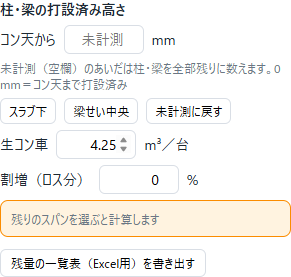
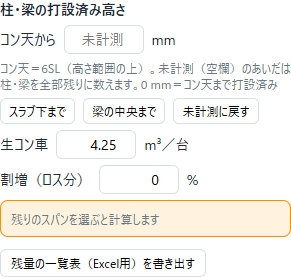
PC画面の文言と並びを直す（site-reviewer 6回目：PC画面の全体レビュー）
- 「数える材料」を「3. 数える部材と材料」の中へ移し、見出しに今の選び方を出す（初期値／初期値から変更）
- 打設リストまわり：「入れ済み」「まだ入れていない分」に言い方をそろえる。二重に数えないチェックを
  「すでにリストに入れた部分は数量から除く（二重に数えないため。外すと全量）」に。左右の説明を短く現場の言い方に
- 残量欄：「コン天＝6SL（高さ範囲の上）」を表示。目安ボタンを「スラブ下まで」「梁の中央まで」に（タブレットも同じ。版 1.4.4）
- 書き出し：「事前にここでタブレット用に書き出します」。書き出し後のメッセージに保存先（ダウンロードのフォルダ）と持ち込み方
- レビュー記録 docs/reviews/2026-11-04_site-reviewer_6.md と画面写真

Changed region(s): [[0.0, 0.2022, 1.0, 0.4621], [0.4021, 0.491, 0.433, 0.5487]]

diff --git a/frontend/app.js b/frontend/app.js
@@ -631,7 +631,7 @@ async function runRemain() {
 async function exportRemainCsv() {
   const order = [...state.remainCells];
   if (!order.length) { toast('先に残りのスパンを選んでください', 'error'); return; }
-  const levels = [['未計測（全量）', presetDepth('none')], ['梁せい中央', presetDepth('beam')], ['スラブ下', presetDepth('slab')]]
+  const levels = [['未計測（全量）', presetDepth('none')], ['梁の中央まで', presetDepth('beam')], ['スラブ下まで', presetDepth('slab')]]
     .filter(([, d]) => d !== null);
   const cur = remainDepthValue() ?? fullDepth();
   if (!levels.some(([, d]) => d === cur)) levels.push(['入力値', cur]);
@@ -648,7 +648,7 @@ async function exportRemainCsv() {
   });
   out.push([], [`生コン車 ${$('truckM3').value} m³／台・割増 ${$('extraPct').value}%・高さ範囲 ${$('rangeText').textContent}`]);
   download(`${state.meta.source.replace(/\.ifc$/i, '')}_${stamp()}_残量一覧表.csv`, csvBlob(out));
-  toast('残量の一覧表を書き出しました', 'ok');
+  toast(`残量の一覧表を書き出しました（${SAVED_TO}）`, 'ok');
 }
 
 // タブレット用データ：全スパンの「上端からの深さ→体積」の表を計算サーバーで作り、1つのJSONに保存する
@@ -690,7 +690,8 @@ async function exportSite() {
   data.uncomputed = [...new Map(data.uncomputed.map((u) => [`${u.name}|${u.category}|${u.reason}`, u])).values()];
   const name = `${state.meta.source.replace(/\.ifc$/i, '')}_${base.title.replace(/[\s（）()]/g, '')}_現場用_${stamp()}.json`;
   download(name, new Blob([JSON.stringify(data)], { type: 'application/json' }));
-  toast(`スパン ${data.cells.length} 件・合計 ${fmt(sum)} m³ を書き出しました${missing ? `（未計算 ${missing} 件は含まれません）` : ''}`, 'ok');
+  toast(`タブレット用に、スパン ${data.cells.length} 件・合計 ${fmt(sum)} m³ を書き出しました${missing ? `（未計算 ${missing} 件は含まれません）` : ''}。` +
+    `${SAVED_TO}。メールやクラウドでタブレットに送り、残量チェックの「データを開く」で選びます`, 'ok');
 }
 
 const regionHoverGroup = new THREE.Group();
@@ -818,6 +819,7 @@ function applyRange() {
   const lowTxt = `${$('lowBase').value}${signed(Number($('lowOff').value) || 0)}`;
   const upTxt = `${$('upBase').value}${signed(Number($('upOff').value) || 0)}`;
   $('rangeText').textContent = `${lowTxt} ～ ${upTxt}（${mm(state.z0)} ～ ${mm(state.z1)} mm）`;
+  $('remainTop').textContent = `コン天＝${upTxt}（高さ範囲の上）`;
   paint();
   scheduleCompute();
 }
@@ -1340,7 +1342,7 @@ function renderResults() {
     const open = r.zones.reduce((a, z) => a + z.total, 0);
     html += `<div class="sum">工区合計 <div class="total">${fmt(sum)} m³</div>` +
       `<div class="muted">${r.zones.map((z) => `${esc(zoneName(z.label))} ${fmt(whole(z))}`).join(' ＋ ')}` +
-      `${open < sum - 0.0005 ? `　（未登録 ${fmt(open)}）` : ''}</div></div>`;
+      `${open < sum - 0.0005 ? `　（まだ入れていない分 ${fmt(open)}）` : ''}</div></div>`;
   }
   for (const z of r.zones) {
     const color = ZONE_COLORS[z.label];
@@ -1348,12 +1350,12 @@ function renderResults() {
     html += `<div class="muted">この条件の数量</div><div class="total">${fmt(whole(z))} <small>m³</small></div>`;
     if (z.excluded > 0.0005) {
       html += '<div class="breakdown">' +
-        `<span class="done">うち打設リストに登録済み（灰色表示）</span><span class="num done">${fmt(z.excluded)} m³</span>` +
-        `<span class="open">未登録（追加できる分）</span><span class="num open">${fmt(z.total)} m³</span></div>`;
+        `<span class="done">うち打設リストに入れ済み（灰色表示）</span><span class="num done">${fmt(z.excluded)} m³</span>` +
+        `<span class="open">まだ入れていない分（追加できる分）</span><span class="num open">${fmt(z.total)} m³</span></div>`;
     }
     // 常に見せるのは工区名・数量・種別内訳・未計算の警告・追加ボタンだけ。根拠は折りたたむ
     if (z.total > 0.0005) {
-      html += `<div class="muted">${z.excluded > 0.0005 ? '未登録分の内訳' : '内訳'}` +
+      html += `<div class="muted">${z.excluded > 0.0005 ? 'まだ入れていない分の内訳' : '内訳'}` +
         ' <span class="qmark" title="柱→梁→壁→スラブ→基礎→階段→その他の順で重なりを配分した参考値です。総数量は重複を除いた体積です。">？</span></div>';
     }
     html += '<table class="mini">';
@@ -1379,9 +1381,9 @@ function renderResults() {
       '</table></details>';
     if (z.total > 0.0005) {
       const zi = r.zones.indexOf(z);
-      html += `<div class="regrow"><button class="reg primary" data-reg="${zi}" title="未登録の ${fmt(z.total)} m³ を追加します">` +
+      html += `<div class="regrow"><button class="reg primary" data-reg="${zi}" title="まだ入れていない ${fmt(z.total)} m³ を追加します">` +
         // 一部が登録済みのときだけ「未登録分」と添え、全体をもう一度足すと誤解されないようにする（数量はすぐ上に出ている）
-        `＋ ${z.excluded > 0.0005 ? '未登録分を' : ''}打設リストに追加</button>`;
+        `＋ ${z.excluded > 0.0005 ? '入れていない分を' : ''}打設リストに追加</button>`;
       if (state.units.length) {
         html += `<select data-addto="${zi}"><option value="">打設リストの既存の行にまとめる…</option>` +
           state.units.map((u, i) => `<option value="${i}">区分${i + 1}「${esc(u.name)}」にまとめる</option>`).join('') + '</select>';
@@ -1618,6 +1620,8 @@ function stamp() {
   const d = new Date(), p = (n) => String(n).padStart(2, '0');
   return `${d.getFullYear()}${p(d.getMonth() + 1)}${p(d.getDate())}_${p(d.getHours())}${p(d.getMinutes())}`;
 }
+// 保存先の案内（ブラウザの保存先。既定はダウンロードのフォルダ）
+const SAVED_TO = '保存先：ダウンロードのフォルダ';
 function download(name, blob) {
   const a = document.createElement('a');
   a.href = URL.createObjectURL(blob);
@@ -1675,7 +1679,7 @@ async function exportCsv() {
   const base = `${state.meta.source.replace(/\.ifc$/i, '')}_${stamp()}`;
   download(`${base}_打設リスト.csv`, csvBlob(list));
   setTimeout(() => download(`${base}_部材明細.csv`, csvBlob(detail)), 300); // 2つ目の保存が抑止されないよう少し空ける
-  toast('表を書き出しました（打設リスト・部材明細。Excelで開けます）', 'ok');
+  toast(`表を書き出しました（打設リスト・部材明細。Excelで開けます。${SAVED_TO}）`, 'ok');
 }
 
 function applyPlan(plan) {
@@ -1745,9 +1749,19 @@ function renderSidebar() {
     return `<tr><td>${selectable ? `<input type="checkbox" data-mat="${esc(name)}"${info.included ? ' checked' : ''}>` : '—'}</td>` +
       `<td>${esc(name)}${selectable ? '' : '<div class="muted">複数材料・材料なしは選べません</div>'}</td><td class="num">${info.count}</td></tr>`;
   }).join('');
+  updateMatSummary();
   state.categories = new Set(m.categories);
   $('categories').innerHTML = m.categories.map((c) =>
     `<label><input type="checkbox" data-cat="${esc(c)}" checked><span class="chip" style="background:${hex(CAT_COLORS[c])}"></span>${esc(c)}</label>`).join('');
+}
+
+// 「数える材料」の見出し：今の選び方が閉じたままでも分かるように
+function updateMatSummary() {
+  const def = defaultMaterials(), cur = [...state.materials];
+  const same = cur.length === def.length && def.every((n) => state.materials.has(n));
+  $('matSummary').textContent = same ? '数える材料：名前に「コンクリート」を含むもの（増し打ち含む）'
+    : !cur.length ? '数える材料：なし（選び直してください）'
+    : `数える材料：${cur.slice(0, 2).join('・')}${cur.length > 2 ? ` ほか ${cur.length - 2} 種類` : ''}（初期値から変更）`;
 }
 
 // 読込中は経過秒数を足して、止まっていないことが分かるようにする
@@ -1849,6 +1863,7 @@ $('materials').addEventListener('change', (ev) => {
   const name = ev.target.dataset.mat;
   if (name === undefined) return;
   ev.target.checked ? state.materials.add(name) : state.materials.delete(name);
+  updateMatSummary();
   paint();
   scheduleCompute();
 });

diff --git a/frontend/index.html b/frontend/index.html
@@ -37,7 +37,7 @@
 
     <section>
       <h2>2. 工区割（打設を分けるときだけ）</h2>
-      <div class="muted">工区割がない場合、右の数量の「打設リストに追加」をクリック</div>
+      <div class="muted">工区を分けないときは、右の数量の「打設リストに追加」へ</div>
       <div class="modes">
         <button data-mode="boundary" class="mode">境界線を引く</button>
         <button data-mode="zone" class="mode">工区名を付ける</button>
@@ -65,8 +65,13 @@
     </section>
 
     <section>
-      <h2>3. 数える部材</h2>
+      <h2>3. 数える部材と材料</h2>
       <div id="categories" class="checks"></div>
+      <details class="mats">
+        <summary id="matSummary">数える材料：名前に「コンクリート」を含むもの（増し打ち含む）</summary>
+        <div class="muted">増し打ちを数えるかなど、ここで選び直せます（初期値：名前に「コンクリート」を含む材料）</div>
+        <table id="materials" class="mini"></table>
+      </details>
       <div class="modes">
         <button data-mode="select" class="mode">部材を選択</button>
         <button id="clearSel">選択解除</button>
@@ -79,14 +84,14 @@
     <section>
       <h2>4. 打設終盤の残量（当日）</h2>
       <div class="filebtns"><button id="exportSite" class="filebtn">タブレット用に書き出す</button></div>
-      <div class="muted">全スパンの数量を保存します（スパンの選択は不要）。当日はタブレットで開きます</div>
+      <div class="muted">事前にここでタブレット用に書き出します（全スパンの数量。スパンの選択は不要）。当日はタブレットで開きます</div>
       <div class="modes"><button data-mode="remain" class="mode">PCで残りのスパンを選ぶ</button></div>
       <div id="remainHelp" class="help hidden">平面図で残りのスパンを打設する順にタップ（もう一度タップで外す）。柱・梁は下の高さまで打設済みとして計算します</div>
       <div id="remainBody" class="hidden">
         <div class="depthhead">柱・梁の打設済み高さ</div>
         <div class="row">コン天から <input id="remainDepth" type="number" step="10" min="0" placeholder="未計測"> mm</div>
-        <div class="muted">未計測（空欄）のあいだは柱・梁を全部残りに数えます。0 mm＝コン天まで打設済み</div>
-        <div class="row presets"><button data-preset="slab">スラブ下</button><button data-preset="beam">梁せい中央</button><button data-preset="none">未計測に戻す</button></div>
+        <div class="muted"><span id="remainTop">コン天＝高さ範囲の上</span>。未計測（空欄）のあいだは柱・梁を全部残りに数えます。0 mm＝コン天まで打設済み</div>
+        <div class="row presets"><button data-preset="slab">スラブ下まで</button><button data-preset="beam">梁の中央まで</button><button data-preset="none">未計測に戻す</button></div>
         <div class="row nowrap">生コン車 <input id="truckM3" type="number" step="0.25" min="0.25" value="4.25"> m³／台</div>
         <div class="row nowrap">割増（ロス分） <input id="extraPct" type="number" step="1" min="0" value="0"> %</div>
         <div id="remainResult" class="remain"></div>
@@ -96,10 +101,6 @@
       </div>
     </section>
 
-    <details>
-      <summary>数える材料（初期値：名前に「コンクリート」を含む材料）</summary>
-      <table id="materials" class="mini"></table>
-    </details>
   </aside>
 
   <main id="viewport">
@@ -122,11 +123,11 @@
     </div>
     <div class="pane-bottom">
       <div class="listhead"><h2>打設リスト</h2><div id="listTotal"></div></div>
-      <div id="unitHelp" class="help">上の「打設リストに追加」で数量を積み上げます。パラペットなどは既存の行にまとめられます</div>
+      <div id="unitHelp" class="help">上の「打設リストに追加」で数量を積み上げます。後から打つ小さな部分（パラペットなど）は、既存の行にまとめられます</div>
       <ul id="unitList" class="list units"></ul>
       <div id="unitSummary"></div>
       <button id="exportCsv" class="filebtn hidden" title="打設リストと部材明細の2つの表（Excelで開けます）を保存します">表に書き出す（Excel用）</button>
-      <label class="row"><input type="checkbox" id="excludeRegistered" checked> リストに入った部分は灰色にして数えない（二重拾い防止）</label>
+      <label class="row"><input type="checkbox" id="excludeRegistered" checked> すでにリストに入れた部分は数量から除く（二重に数えないため。外すと全量）</label>
     </div>
   </aside>
 

diff --git a/site_app/app.js b/site_app/app.js
@@ -2,7 +2,7 @@
 import { fmt, fullVolume, parseSiteData, presetMm, totals, remaining, truckPlan } from './calc.js';
 import { STATUS_NAME, recordCsv, stamp, zoneKeyOf, zoneTitle } from './record.js';
 
-const APP_VERSION = '1.4.3'; // sw.js の VERSION と合わせる（キャッシュで古い版が動いていないか確かめる用）
+const APP_VERSION = '1.4.4'; // sw.js の VERSION と合わせる（キャッシュで古い版が動いていないか確かめる用）
 const $ = (id) => document.getElementById(id);
 const SVGNS = 'http://www.w3.org/2000/svg';
 const CAT_COLORS = { 柱: '#c62828', 梁: '#ef6c00', 壁: '#0288d1', スラブ: '#a0a4a8', 基礎: '#6d4c41', 階段: '#6a1b9a', その他: '#546e7a' };
@@ -516,7 +516,7 @@ function setDepth(mm) {
 // 記録に書くスパン：長押ししたスパン、なければ選んでいる工区の打設中のスパン
 const depthTargets = () => (editId ? [editId]
   : [...cellEls.values()].filter(({ cell }) => inZone(cell) && statusOf(cell.id) === 'pouring').map(({ cell }) => cell.id));
-const PRESET_NAME = { slab_bottom_mm: 'スラブ下', beam_mid_mm: '梁せい中央', none: '未計測に戻す' };
+const PRESET_NAME = { slab_bottom_mm: 'スラブ下まで', beam_mid_mm: '梁の中央まで', none: '未計測に戻す' };
 // 高さの欄の値：空欄は未計測（null）
 const readDepth = () => ($('depth').value.trim() === '' ? null : Math.max(0, Number($('depth').value) || 0));
 

diff --git a/site_app/sw.js b/site_app/sw.js
@@ -1,6 +1,6 @@
 // オフラインでも開けるよう、アプリ本体（HTML・JS・CSS・アイコン）だけを保存する。データファイルは保存しない
 // 電波があるときは常に最新版を取りに行き（古い版が残らない）、圏外のときだけ保存した版を使う
-const VERSION = '1.4.3'; // app.js の APP_VERSION と合わせる
+const VERSION = '1.4.4'; // app.js の APP_VERSION と合わせる
 const CACHE = `site-app-${VERSION}`;
 const SHELL = ['./', './index.html', './app.js', './calc.js', './record.js', './style.css', './manifest.webmanifest',
   './icons/icon-192.png', './icons/icon-512.png'];

diff --git a/site_app/index.html b/site_app/index.html
@@ -66,8 +66,8 @@
       <div id="depthNote" class="small muted"></div>
       <div class="presetcap">目安（押すと上の欄に入ります）</div>
       <div class="row presets">
-        <button class="btn" data-preset="slab_bottom_mm">スラブ下</button>
-        <button class="btn" data-preset="beam_mid_mm">梁せい中央</button>
+        <button class="btn" data-preset="slab_bottom_mm">スラブ下まで</button>
+        <button class="btn" data-preset="beam_mid_mm">梁の中央まで</button>
         <button class="btn" data-preset="none">未計測に戻す</button>
       </div>
       <div class="row">

diff --git a/docs/reviews/2026-11-04_site-reviewer_6.md b/docs/reviews/2026-11-04_site-reviewer_6.md
@@ -1,0 +1,37 @@
+# site-reviewer レビュー（6回目）：PC画面の全体（機能凍結前）
+
+- 依頼：PC画面（frontend/）を工事主任として最初から最後まで一巡。IFCを開く→施工階→工区割→打設リスト→表の書き出し→前日のタブレット用書き出し
+- 条件：5SL～6SL。スクリーンショット 1・2・3・8・9（レビュー役が開けたのは 9 のみ。ほかは文言で確認）
+- 件数：迷う 2件／分かりにくい 3件／段取りと合わない 0件（1・2・5は段取りとの食い違いを含む）
+- 対応：利用者の確認待ち。指摘4の「コン天の ○ mm 下まで」は、利用者が決めた「コン天から ○ mm」と食い違うため、変えるかは利用者が判断する
+
+## 指摘1（迷う）：段取りの順と左の欄の番号が合わない
+- 場面：IFCを開いた直後、左の欄を上から読むとき
+- 今の文言：「1. 施工階と高さ範囲」「2. 工区割」「3. 数える部材」「4. 打設終盤の残量（当日）」の下に、折りたたみの「数える材料（初期値：名前に「コンクリート」を含む材料）」
+- 困ること：番号の外にあるので見落とす。増し打ちを数えるかを決める大事な項目。「数える部材」と「数える材料」の違いが分からない
+- 改善案：「数える材料」を「3. 数える部材」の直下へ。見出しを今の選び方が分かる文言に（例「数える材料：コンクリート（増し打ち含む）」）
+
+## 指摘2（迷う）：打設リストに追加する流れの説明が左右に分かれている
+- 場面：工区割をせず、数量を出して打設リストに積むとき
+- 今の文言：左「工区割がない場合、右の数量の「打設リストに追加」をクリック」、右下「上の「打設リストに追加」で数量を積み上げます。パラペットなどは既存の行にまとめられます」
+- 困ること：右の見出し「いまの条件の数量」が打設1回分か階全体か分からない。パラペットの一文はいつ使うのか読み取れない
+- 改善案：左は「分けないときは、右の数量の「打設リストに追加」へ」。パラペットの一文は「後から打つ小さな部分は、既存の行にまとめられます」
+
+## 指摘3（分かりにくい）：「リストに入った部分は灰色にして数えない（二重拾い防止）」
+- 場面：打設リスト欄の下のチェック（初期はオン）
+- 困ること：外すと何が起きるか読めない。「登録済み」「リストに入っている」が混在
+- 改善案：「すでにリストに入れた部分は数量から除く（二重に数えないため）」。結果側も「リストに入れ済み」「まだ入れていない分」に統一
+
+## 指摘4（分かりにくい）：残量欄の高さまわり
+- 場面：「PCで残りのスパンを選ぶ」の下の欄
+- 困ること：入力欄「コン天から ○ mm」に「下」がなく、結果の「コン天から 280 mm 下まで打設済み」とずれる。PCにはコン天の説明がない（5回目の新4が未対応）。「梁せい中央」が通じにくい
+- 改善案：入力欄を「コン天の［ ］mm 下まで打設済み」に（※利用者の決定と食い違う）。「コン天＝その階の上のSL（6SLなど）」を1行足す。ボタンを「スラブ下まで」「梁の中央まで」に
+
+## 指摘5（分かりにくい）：3つの書き出しが似ていて、前日にどれを使うか迷う
+- 場面：「タブレット用に書き出す」「表に書き出す（Excel用）」「残量の一覧表（Excel用）を書き出す」
+- 困ること：前日にやる書き出しが「4. 打設終盤の残量（当日）」の下にある。保存先と持ち込み方が書かれていない
+- 改善案：4の説明に「前日にここでタブレット用に書き出します」を足す。書き出し後のメッセージに保存先を出す。中身で呼び分ける（「打設リストの表」「残量の早見表」「タブレット用データ」）
+
+## 内部用語
+- offset・seed・cell・from_top・member_id・region・z0・z1 は見当たらない。「CSV」はPC画面から消えた
+- 人によって通じにくい語：「根拠を見る」の「重複控除」「単純合計」、「パラペット」、「材料内訳」、「未計算 ○ 件（参考体積）」。失敗時の「（詳細：…）」はエラーの原文が出る
